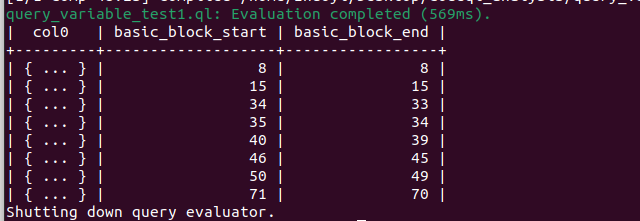
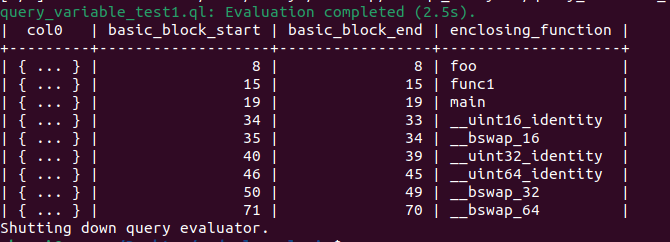
add new test files

diff --git a/switch_cases.c b/switch_cases.c
@@ -1,0 +1,51 @@
+#include <stdio.h>
+
+
+int foo(int i){
+	int a = 2; 
+	int b = 5; 
+	int result = a + b;
+	return result;
+}
+
+int main() {
+    int day;
+    int week;
+
+    printf("Enter a number (1-7) for the day of the week: ");
+    scanf("%d", &day);
+
+    switch (day) {
+        case 1:
+            printf("Monday\n");
+            week = 0;
+           
+        case 2:
+            printf("Tuesday\n");
+            int year = 0;
+            break;
+        case 3:
+            printf("Wednesday\n");
+            break;
+        case 4:
+            printf("Thursday\n");
+            break;
+        case 5:
+            printf("Friday\n");
+            break;
+        case 6:
+            printf("Saturday\n");
+            break;
+        case 7:
+            printf("Sunday\n");
+            break;
+        default:
+            printf("Invalid input! Please enter a number between 1 and 7.\n");
+            break;
+        day = 12;
+        printf("this is the end of the main function");
+    }
+
+    return 0;
+}
+

diff --git a/if_else.c b/if_else.c
@@ -1,0 +1,17 @@
+#include <stdio.h>
+
+int main() {
+    int num = 10;
+
+    if (num > 20) {
+        printf("Number is greater than 20.\n");
+    } else if (num > 15) {
+        printf("Number is greater than 15 but less than or equal to 20.\n");
+    } else if (num > 10) {
+        printf("Number is greater than 10 but less than or equal to 15.\n");
+    } else {
+        printf("Number is 10 or less.\n");
+    }
+
+    return 0;
+}

diff --git a/variable_test2.c b/variable_test2.c
@@ -12,9 +12,14 @@ void foo(int i) {
 	
 }
 
+void func1(){
+	x = 14;
+}
+
 int main( void ){
 	a = 12;
 	foo(a);
 	a = 45;
+	func1();
 	return 0;
 }
